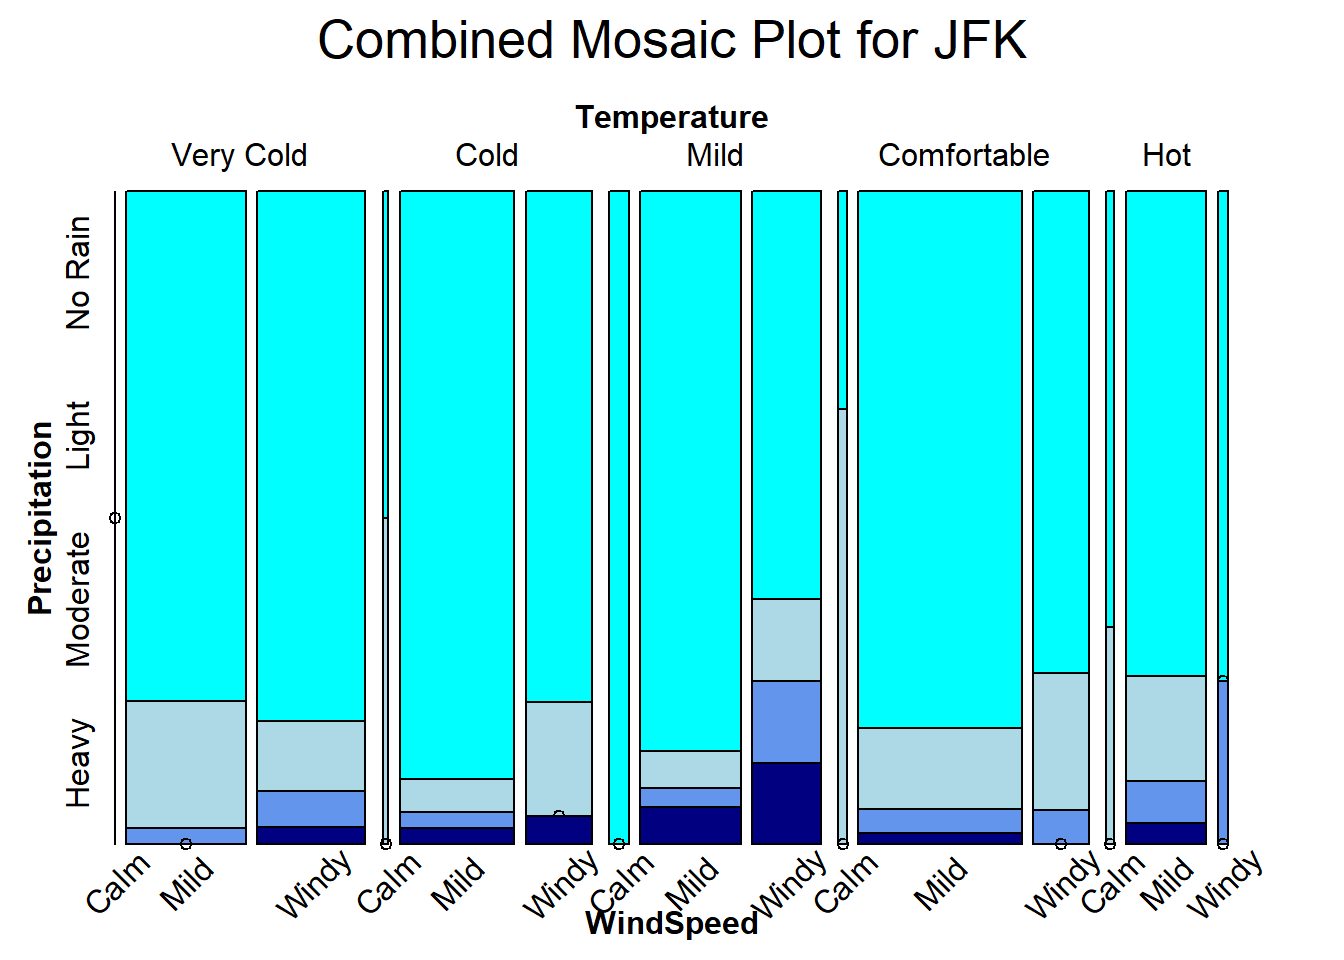
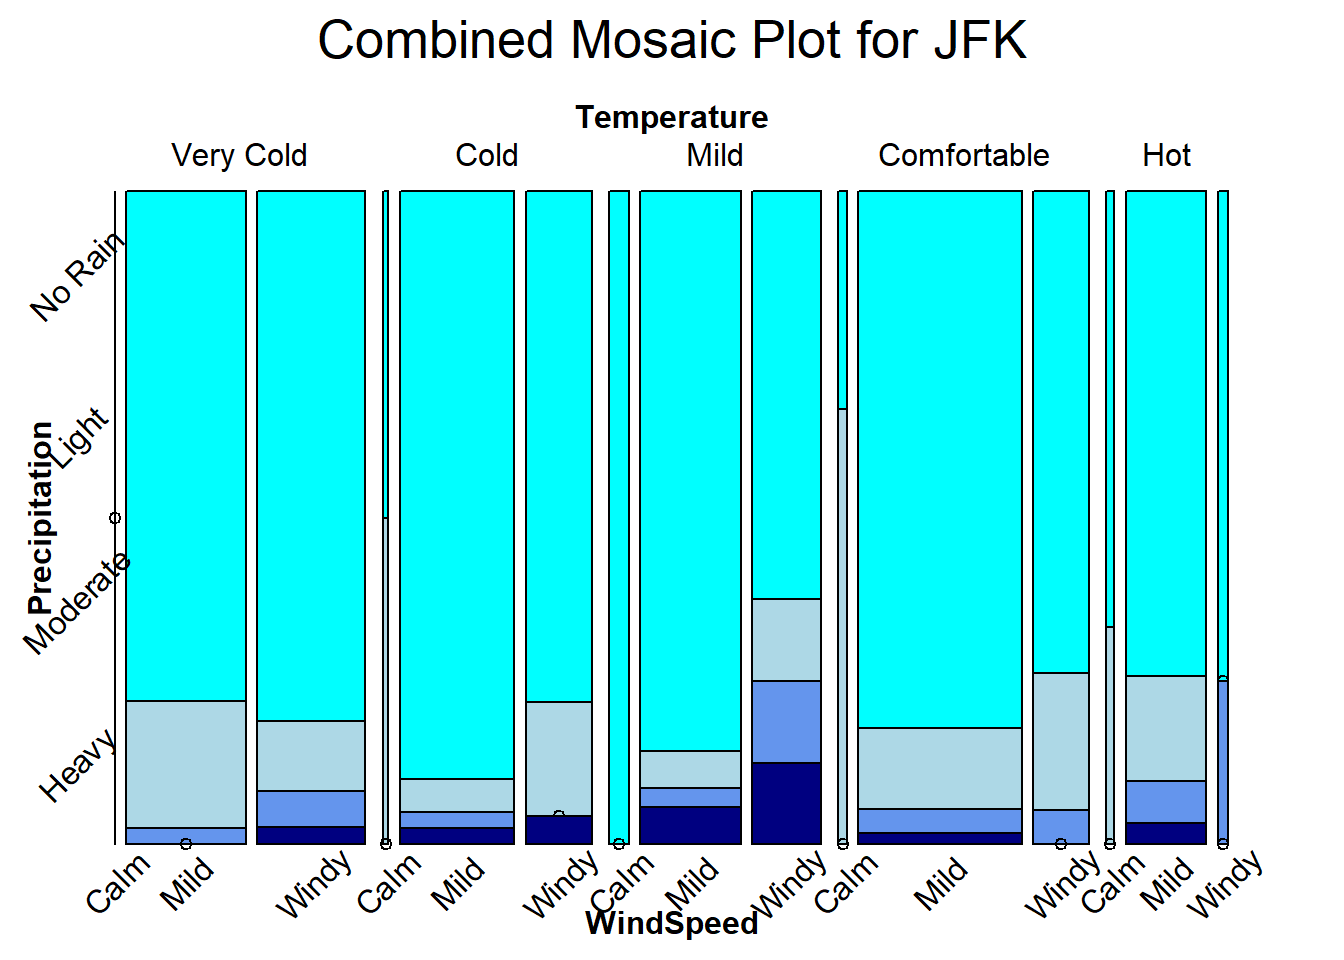
Final render

diff --git a/docs/data.html b/docs/data.html
@@ -7,7 +7,7 @@
 <meta name="viewport" content="width=device-width, initial-scale=1.0, user-scalable=yes">
 
 
-<title>Exploritory Analysis of NY Percipitation and Wind - 2&nbsp; Technical description</title>
+<title>Exploritory Analysis of NY Percipitation and Wind - 2&nbsp; Data</title>
 <style>
 code{white-space: pre-wrap;}
 span.smallcaps{font-variant: small-caps;}
@@ -107,7 +107,7 @@ pre > code.sourceCode > span > a:first-child::before { text-decoration: underlin
       <button type="button" class="quarto-btn-toggle btn" data-bs-toggle="collapse" data-bs-target="#quarto-sidebar,#quarto-sidebar-glass" aria-controls="quarto-sidebar" aria-expanded="false" aria-label="Toggle sidebar navigation" onclick="if (window.quartoToggleHeadroom) { window.quartoToggleHeadroom(); }">
         <i class="bi bi-layout-text-sidebar-reverse"></i>
       </button>
-      <nav class="quarto-page-breadcrumbs" aria-label="breadcrumb"><ol class="breadcrumb"><li class="breadcrumb-item"><a href="./data.html"><span class="chapter-number">2</span>&nbsp; <span class="chapter-title">Technical description</span></a></li></ol></nav>
+      <nav class="quarto-page-breadcrumbs" aria-label="breadcrumb"><ol class="breadcrumb"><li class="breadcrumb-item"><a href="./data.html"><span class="chapter-number">2</span>&nbsp; <span class="chapter-title">Data</span></a></li></ol></nav>
       <a class="flex-grow-1" role="button" data-bs-toggle="collapse" data-bs-target="#quarto-sidebar,#quarto-sidebar-glass" aria-controls="quarto-sidebar" aria-expanded="false" aria-label="Toggle sidebar navigation" onclick="if (window.quartoToggleHeadroom) { window.quartoToggleHeadroom(); }">      
       </a>
       <button type="button" class="btn quarto-search-button" aria-label="Search" onclick="window.quartoOpenSearch();">
@@ -144,7 +144,7 @@ pre > code.sourceCode > span > a:first-child::before { text-decoration: underlin
         <li class="sidebar-item">
   <div class="sidebar-item-container"> 
   <a href="./data.html" class="sidebar-item-text sidebar-link active">
- <span class="menu-text"><span class="chapter-number">2</span>&nbsp; <span class="chapter-title">Technical description</span></span></a>
+ <span class="menu-text"><span class="chapter-number">2</span>&nbsp; <span class="chapter-title">Data</span></span></a>
   </div>
 </li>
         <li class="sidebar-item">
@@ -175,8 +175,9 @@ pre > code.sourceCode > span > a:first-child::before { text-decoration: underlin
     <h2 id="toc-title">Table of contents</h2>
    
   <ul>
-  <li><a href="#research-plan" id="toc-research-plan" class="nav-link active" data-scroll-target="#research-plan"><span class="header-section-number">2.1</span> Research plan</a></li>
-  <li><a href="#missing-value-analysis" id="toc-missing-value-analysis" class="nav-link" data-scroll-target="#missing-value-analysis"><span class="header-section-number">2.2</span> Missing value analysis</a></li>
+  <li><a href="#technical-description" id="toc-technical-description" class="nav-link active" data-scroll-target="#technical-description"><span class="header-section-number">2.1</span> Technical Description</a></li>
+  <li><a href="#research-plan" id="toc-research-plan" class="nav-link" data-scroll-target="#research-plan"><span class="header-section-number">2.2</span> Research plan</a></li>
+  <li><a href="#missing-value-analysis" id="toc-missing-value-analysis" class="nav-link" data-scroll-target="#missing-value-analysis"><span class="header-section-number">2.3</span> Missing value analysis</a></li>
   </ul>
 <div class="toc-actions"><div><i class="bi bi-github"></i></div><div class="action-links"><p><a href="https://github.com/dongqiwuuuu/NewYorkWindPerc.git/edit/main/data.qmd" class="toc-action">Edit this page</a></p><p><a href="https://github.com/dongqiwuuuu/NewYorkWindPerc.git/issues/new" class="toc-action">Report an issue</a></p></div></div></nav>
     </div>
@@ -185,7 +186,7 @@ pre > code.sourceCode > span > a:first-child::before { text-decoration: underlin
 
 <header id="title-block-header" class="quarto-title-block default">
 <div class="quarto-title">
-<h1 class="title"><span class="chapter-number">2</span>&nbsp; <span class="chapter-title">Technical description</span></h1>
+<h1 class="title"><span class="chapter-number">2</span>&nbsp; <span class="chapter-title">Data</span></h1>
 </div>
 
 
@@ -200,20 +201,23 @@ pre > code.sourceCode > span > a:first-child::before { text-decoration: underlin
 
 </header>
 
+<section id="technical-description" class="level2" data-number="2.1">
+<h2 data-number="2.1" class="anchored" data-anchor-id="technical-description"><span class="header-section-number">2.1</span> Technical Description</h2>
 <p>For our research project, we choose to use Global Historical Climatology Network (GHCN)-Daily Dataset. It is a composite dataset comprising climate records from numerous sources worldwide. These records are merged and subjected to quality assurance reviews. The dataset is maintained by the National Oceanic and Atmospheric Administration (NOAA).</p>
 <p>The data we get from NOAA data source is in csv format. The data is distributed typically with one row per observation, indicating one observation per day. We choose to use the date range between 2023-01-01 to 2023-11-27 for analysis of the most current trend in atmosphere. Updates of the dataset are made in either several days or a week, ensuring a near-real-time data feed.</p>
 <p>For the coverage of the dataset, it includes over 40 meteorological elements such as temperature extremes, precipitation, wind speed, and direction. Within our choice of range, it includes 312 stations for observations, which allows for later analysis on geographical comparisons.</p>
 <p>Potential issues might include varying data quality and completeness across stations and time periods. For our purpose of research, there does exist some missing data in some of the targeted columns, and therefore needs further filtering and processes to deal with.</p>
 <p>For importing data, we choose to import the csv file we got from the NOAA source into R using standard data reading functions like read.csv().</p>
 <p>Data Link: https://www.ncei.noaa.gov/cdo-web/datasets/GHCND/locations/CITY:US360019/detail</p>
-<section id="research-plan" class="level2" data-number="2.1">
-<h2 data-number="2.1" class="anchored" data-anchor-id="research-plan"><span class="header-section-number">2.1</span> Research plan</h2>
+</section>
+<section id="research-plan" class="level2" data-number="2.2">
+<h2 data-number="2.2" class="anchored" data-anchor-id="research-plan"><span class="header-section-number">2.2</span> Research plan</h2>
 <p>Our dataset, encompassing over 40 diverse meteorological elements such as temperature extremes, precipitation, wind speed, and direction, offers a comprehensive platform for examining the interactions between these various weather components. Specifically, we aim to delve into how wind conditions correlate with patterns of precipitation and temperature changes. This exploration is expected to yield insights into the complex dynamics that govern weather systems.</p>
 <p>Moreover, the inclusion of data from 312 observation stations across New York enhances the depth of our study by enabling regional comparisons. This aspect is particularly valuable as it allows us to analyze how precipitation trends and wind patterns differ across various locations, thereby providing a more nuanced understanding of regional climatic behaviors. Specifically, we are focusing on the three airports near New York.</p>
 <p>Additionally, the dataset’s up-to-date time series data is crucial for our investigation into the temporal variations and trends of temperature and precipitation. By analyzing this data, we can uncover how these patterns evolve over the course of the year, offering a window into the seasonal shifts and long-term trends in weather conditions. Overall, this dataset serves as a vital tool in our quest to unravel the intricate relationships between precipitation, temperature, and wind and their implications on a regional and temporal scale.</p>
 </section>
-<section id="missing-value-analysis" class="level2" data-number="2.2">
-<h2 data-number="2.2" class="anchored" data-anchor-id="missing-value-analysis"><span class="header-section-number">2.2</span> Missing value analysis</h2>
+<section id="missing-value-analysis" class="level2" data-number="2.3">
+<h2 data-number="2.3" class="anchored" data-anchor-id="missing-value-analysis"><span class="header-section-number">2.3</span> Missing value analysis</h2>
 <div class="cell">
 <details>
 <summary>Code</summary>

diff --git a/docs/results.html b/docs/results.html
@@ -144,7 +144,7 @@ pre > code.sourceCode > span > a:first-child::before { text-decoration: underlin
         <li class="sidebar-item">
   <div class="sidebar-item-container"> 
   <a href="./data.html" class="sidebar-item-text sidebar-link">
- <span class="menu-text"><span class="chapter-number">2</span>&nbsp; <span class="chapter-title">Technical description</span></span></a>
+ <span class="menu-text"><span class="chapter-number">2</span>&nbsp; <span class="chapter-title">Data</span></span></a>
   </div>
 </li>
         <li class="sidebar-item">
@@ -416,7 +416,7 @@ pre > code.sourceCode > span > a:first-child::before { text-decoration: underlin
 <span id="cb15-13"><a href="#cb15-13" aria-hidden="true" tabindex="-1"></a></span>
 <span id="cb15-14"><a href="#cb15-14" aria-hidden="true" tabindex="-1"></a></span>
 <span id="cb15-15"><a href="#cb15-15" aria-hidden="true" tabindex="-1"></a><span class="fu">mosaic</span>(Precipitation <span class="sc">~</span> Temperature <span class="sc">+</span> WindSpeed, <span class="at">data =</span> cat_jfk,  </span>
-<span id="cb15-16"><a href="#cb15-16" aria-hidden="true" tabindex="-1"></a>       <span class="at">direction =</span> <span class="fu">c</span>(<span class="st">"v"</span>, <span class="st">"v"</span>, <span class="st">"h"</span>), <span class="at">main =</span> <span class="st">"Combined Mosaic Plot for JFK"</span>, <span class="at">rot_labels=</span><span class="fu">c</span>(<span class="dv">0</span>,<span class="dv">0</span>,<span class="dv">45</span>,<span class="dv">90</span>), <span class="at">highlighting_fill=</span><span class="fu">c</span>(<span class="st">"cyan"</span>,<span class="st">"lightblue"</span>, <span class="st">"cornflowerblue"</span>, <span class="st">"navy"</span>))</span></code><button title="Copy to Clipboard" class="code-copy-button"><i class="bi"></i></button></pre></div>
+<span id="cb15-16"><a href="#cb15-16" aria-hidden="true" tabindex="-1"></a>       <span class="at">direction =</span> <span class="fu">c</span>(<span class="st">"v"</span>, <span class="st">"v"</span>, <span class="st">"h"</span>), <span class="at">main =</span> <span class="st">"Combined Mosaic Plot for JFK"</span>, <span class="at">rot_labels=</span><span class="fu">c</span>(<span class="dv">0</span>,<span class="dv">0</span>,<span class="dv">45</span>,<span class="dv">45</span>), <span class="at">highlighting_fill=</span><span class="fu">c</span>(<span class="st">"cyan"</span>,<span class="st">"lightblue"</span>, <span class="st">"cornflowerblue"</span>, <span class="st">"navy"</span>))</span></code><button title="Copy to Clipboard" class="code-copy-button"><i class="bi"></i></button></pre></div>
 </details>
 <div class="cell-output-display">
 <p><img src="results_files/figure-html/unnamed-chunk-8-1.png" class="img-fluid" width="672"></p>
@@ -424,7 +424,7 @@ pre > code.sourceCode > span > a:first-child::before { text-decoration: underlin
 <details>
 <summary>Code</summary>
 <div class="sourceCode cell-code" id="cb16"><pre class="sourceCode r code-with-copy"><code class="sourceCode r"><span id="cb16-1"><a href="#cb16-1" aria-hidden="true" tabindex="-1"></a><span class="fu">mosaic</span>(Precipitation <span class="sc">~</span> Temperature <span class="sc">+</span> WindSpeed, <span class="at">data =</span> cat_nwk,  </span>
-<span id="cb16-2"><a href="#cb16-2" aria-hidden="true" tabindex="-1"></a>       <span class="at">direction =</span> <span class="fu">c</span>(<span class="st">"v"</span>, <span class="st">"v"</span>, <span class="st">"h"</span>), <span class="at">main =</span> <span class="st">"Combined Mosaic Plot for NWK"</span>, <span class="at">rot_labels=</span><span class="fu">c</span>(<span class="dv">0</span>,<span class="dv">0</span>,<span class="dv">45</span>,<span class="dv">90</span>), <span class="at">highlighting_fill=</span><span class="fu">c</span>(<span class="st">"cyan"</span>,<span class="st">"lightblue"</span>, <span class="st">"cornflowerblue"</span>, <span class="st">"navy"</span>))</span></code><button title="Copy to Clipboard" class="code-copy-button"><i class="bi"></i></button></pre></div>
+<span id="cb16-2"><a href="#cb16-2" aria-hidden="true" tabindex="-1"></a>       <span class="at">direction =</span> <span class="fu">c</span>(<span class="st">"v"</span>, <span class="st">"v"</span>, <span class="st">"h"</span>), <span class="at">main =</span> <span class="st">"Combined Mosaic Plot for NWK"</span>, <span class="at">rot_labels=</span><span class="fu">c</span>(<span class="dv">0</span>,<span class="dv">0</span>,<span class="dv">45</span>,<span class="dv">45</span>), <span class="at">highlighting_fill=</span><span class="fu">c</span>(<span class="st">"cyan"</span>,<span class="st">"lightblue"</span>, <span class="st">"cornflowerblue"</span>, <span class="st">"navy"</span>))</span></code><button title="Copy to Clipboard" class="code-copy-button"><i class="bi"></i></button></pre></div>
 </details>
 <div class="cell-output-display">
 <p><img src="results_files/figure-html/unnamed-chunk-8-2.png" class="img-fluid" width="672"></p>
@@ -432,7 +432,7 @@ pre > code.sourceCode > span > a:first-child::before { text-decoration: underlin
 <details>
 <summary>Code</summary>
 <div class="sourceCode cell-code" id="cb17"><pre class="sourceCode r code-with-copy"><code class="sourceCode r"><span id="cb17-1"><a href="#cb17-1" aria-hidden="true" tabindex="-1"></a><span class="fu">mosaic</span>(Precipitation <span class="sc">~</span> Temperature <span class="sc">+</span> WindSpeed, <span class="at">data =</span> cat_lga,  </span>
-<span id="cb17-2"><a href="#cb17-2" aria-hidden="true" tabindex="-1"></a>       <span class="at">direction =</span> <span class="fu">c</span>(<span class="st">"v"</span>, <span class="st">"v"</span>, <span class="st">"h"</span>), <span class="at">main =</span> <span class="st">"Combined Mosaic Plot for LGA"</span>, <span class="at">rot_labels=</span><span class="fu">c</span>(<span class="dv">0</span>,<span class="dv">0</span>,<span class="dv">45</span>,<span class="dv">90</span>), <span class="at">highlighting_fill=</span><span class="fu">c</span>(<span class="st">"cyan"</span>,<span class="st">"lightblue"</span>, <span class="st">"cornflowerblue"</span>, <span class="st">"navy"</span>))</span></code><button title="Copy to Clipboard" class="code-copy-button"><i class="bi"></i></button></pre></div>
+<span id="cb17-2"><a href="#cb17-2" aria-hidden="true" tabindex="-1"></a>       <span class="at">direction =</span> <span class="fu">c</span>(<span class="st">"v"</span>, <span class="st">"v"</span>, <span class="st">"h"</span>), <span class="at">main =</span> <span class="st">"Combined Mosaic Plot for LGA"</span>, <span class="at">rot_labels=</span><span class="fu">c</span>(<span class="dv">0</span>,<span class="dv">0</span>,<span class="dv">45</span>,<span class="dv">45</span>), <span class="at">highlighting_fill=</span><span class="fu">c</span>(<span class="st">"cyan"</span>,<span class="st">"lightblue"</span>, <span class="st">"cornflowerblue"</span>, <span class="st">"navy"</span>))</span></code><button title="Copy to Clipboard" class="code-copy-button"><i class="bi"></i></button></pre></div>
 </details>
 <div class="cell-output-display">
 <p><img src="results_files/figure-html/unnamed-chunk-8-3.png" class="img-fluid" width="672"></p>
@@ -756,7 +756,7 @@ window.document.addEventListener("DOMContentLoaded", function (event) {
 <nav class="page-navigation">
   <div class="nav-page nav-page-previous">
       <a href="./data.html" class="pagination-link">
-        <i class="bi bi-arrow-left-short"></i> <span class="nav-page-text"><span class="chapter-number">2</span>&nbsp; <span class="chapter-title">Technical description</span></span>
+        <i class="bi bi-arrow-left-short"></i> <span class="nav-page-text"><span class="chapter-number">2</span>&nbsp; <span class="chapter-title">Data</span></span>
       </a>          
   </div>
   <div class="nav-page nav-page-next">

diff --git a/docs/index.html b/docs/index.html
@@ -112,7 +112,7 @@ ul.task-list li input[type="checkbox"] {
         <li class="sidebar-item">
   <div class="sidebar-item-container"> 
   <a href="./data.html" class="sidebar-item-text sidebar-link">
- <span class="menu-text"><span class="chapter-number">2</span>&nbsp; <span class="chapter-title">Technical description</span></span></a>
+ <span class="menu-text"><span class="chapter-number">2</span>&nbsp; <span class="chapter-title">Data</span></span></a>
   </div>
 </li>
         <li class="sidebar-item">
@@ -432,7 +432,7 @@ window.document.addEventListener("DOMContentLoaded", function (event) {
   </div>
   <div class="nav-page nav-page-next">
       <a href="./data.html" class="pagination-link">
-        <span class="nav-page-text"><span class="chapter-number">2</span>&nbsp; <span class="chapter-title">Technical description</span></span> <i class="bi bi-arrow-right-short"></i>
+        <span class="nav-page-text"><span class="chapter-number">2</span>&nbsp; <span class="chapter-title">Data</span></span> <i class="bi bi-arrow-right-short"></i>
       </a>
   </div>
 </nav>

diff --git a/docs/conclusion.html b/docs/conclusion.html
@@ -109,7 +109,7 @@ ul.task-list li input[type="checkbox"] {
         <li class="sidebar-item">
   <div class="sidebar-item-container"> 
   <a href="./data.html" class="sidebar-item-text sidebar-link">
- <span class="menu-text"><span class="chapter-number">2</span>&nbsp; <span class="chapter-title">Technical description</span></span></a>
+ <span class="menu-text"><span class="chapter-number">2</span>&nbsp; <span class="chapter-title">Data</span></span></a>
   </div>
 </li>
         <li class="sidebar-item">

diff --git a/docs/d3graph.html b/docs/d3graph.html
@@ -110,7 +110,7 @@ ul.task-list li input[type="checkbox"] {
         <li class="sidebar-item">
   <div class="sidebar-item-container"> 
   <a href="./data.html" class="sidebar-item-text sidebar-link">
- <span class="menu-text"><span class="chapter-number">2</span>&nbsp; <span class="chapter-title">Technical description</span></span></a>
+ <span class="menu-text"><span class="chapter-number">2</span>&nbsp; <span class="chapter-title">Data</span></span></a>
   </div>
 </li>
         <li class="sidebar-item">
